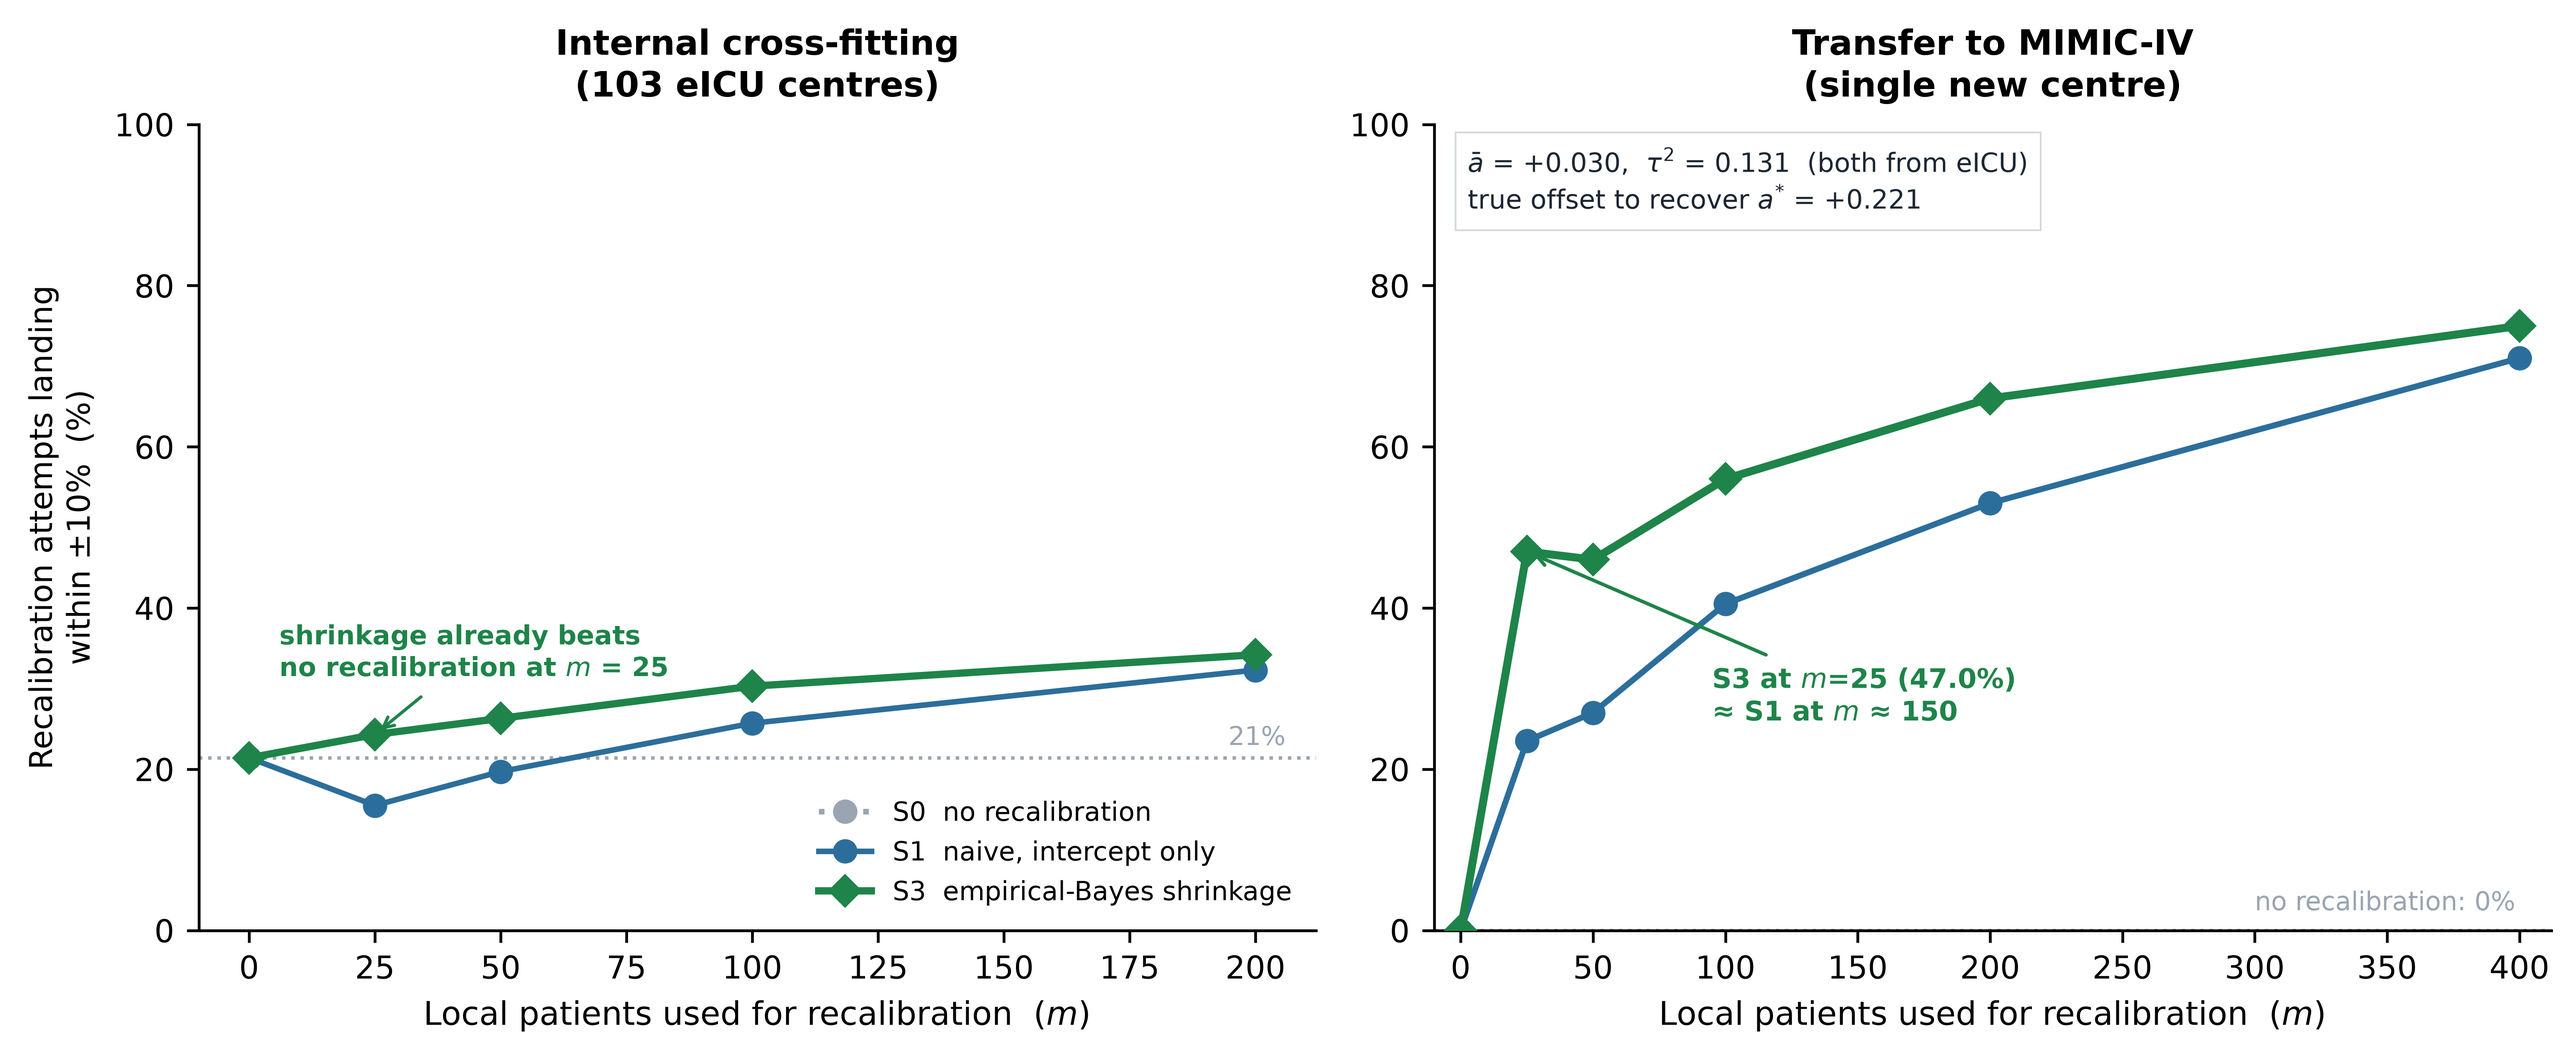
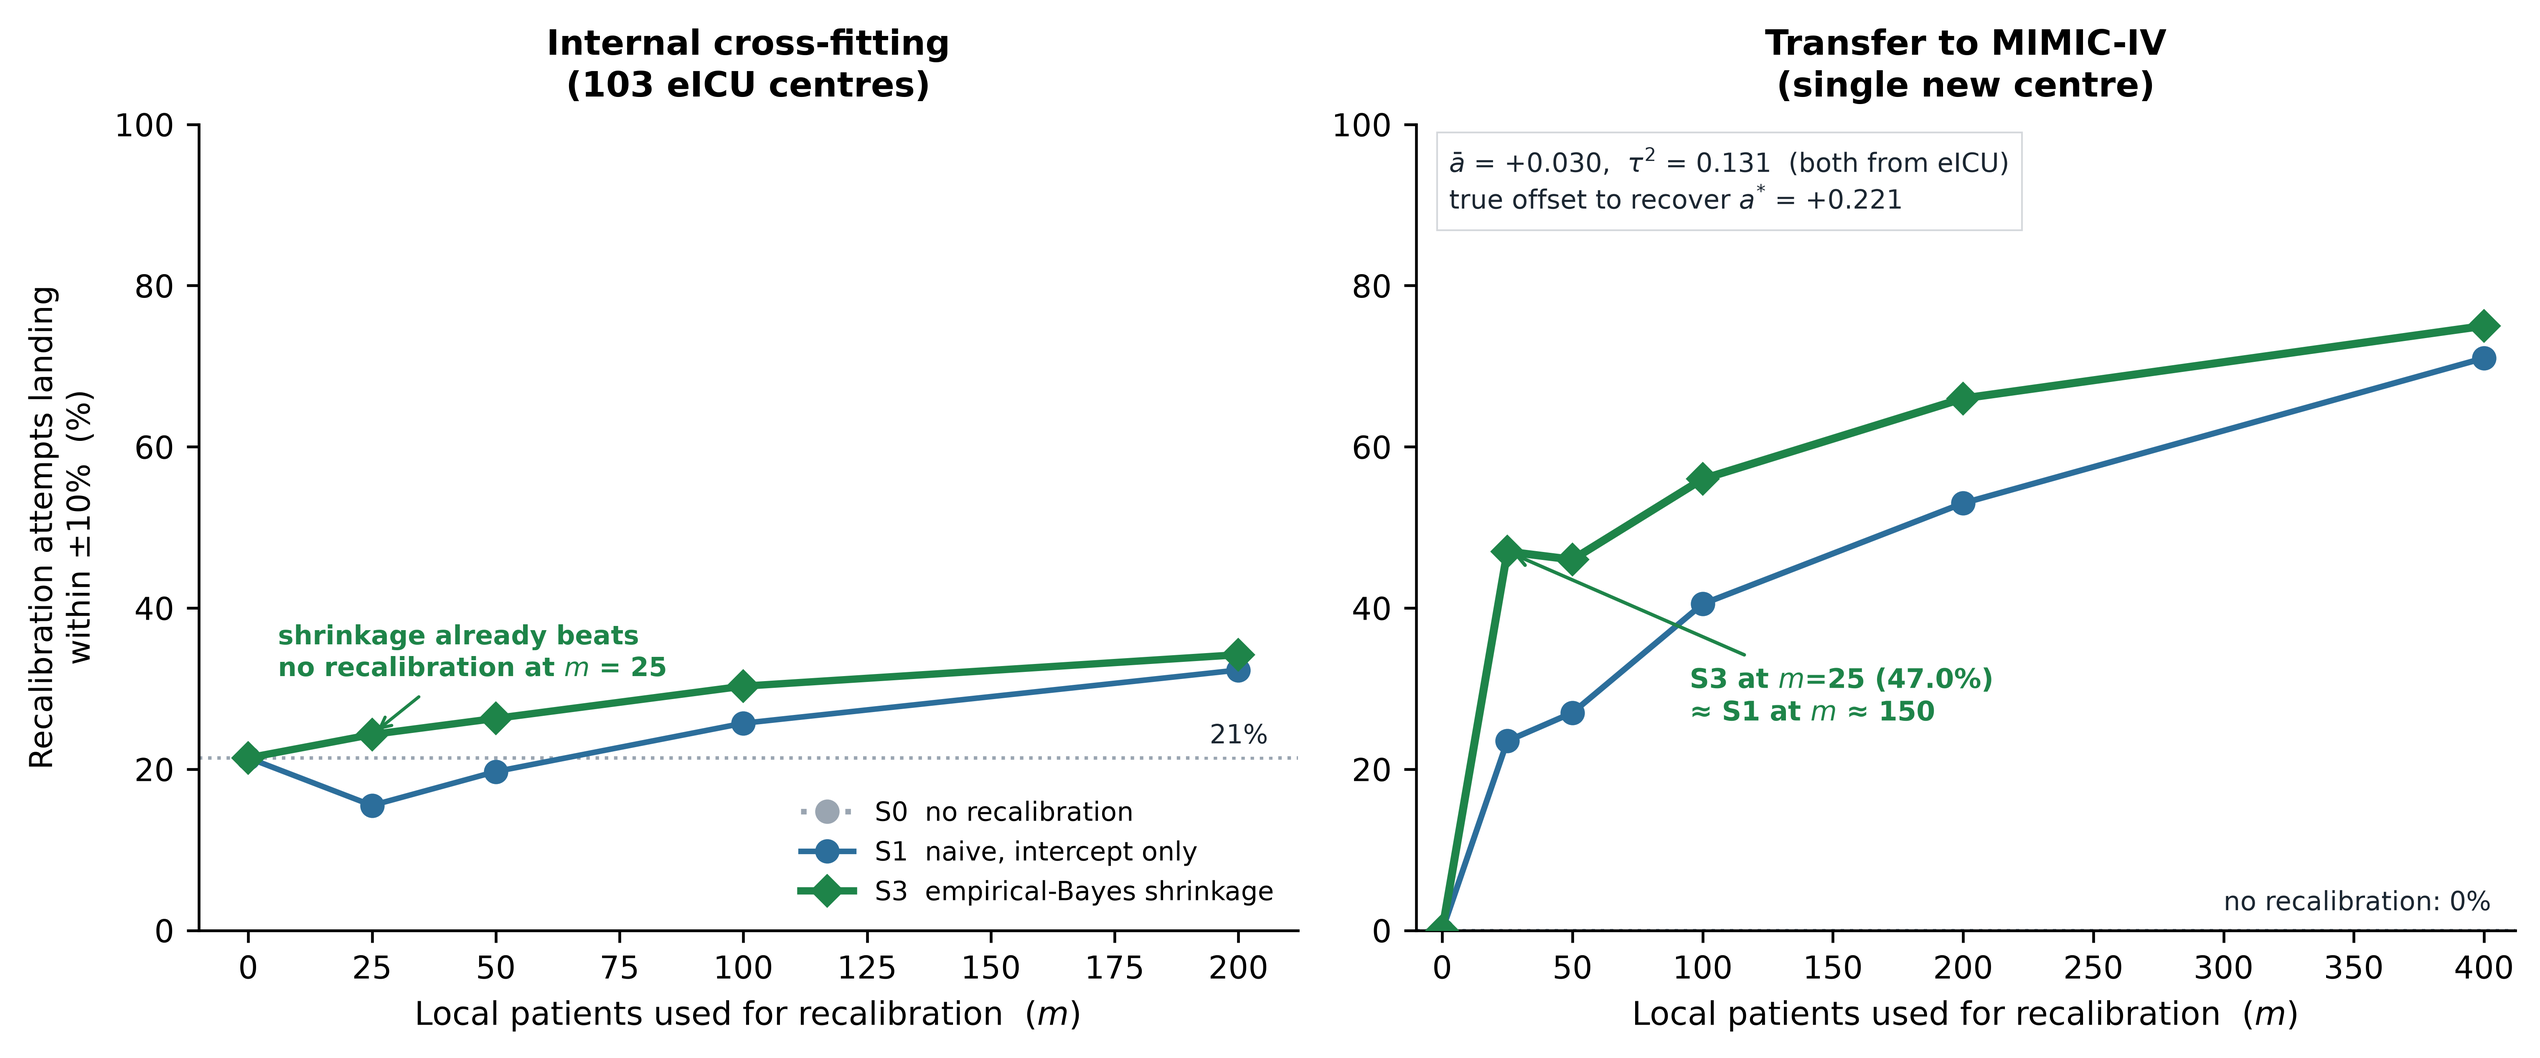
P1 batch 2: contrast boxes on Fig7 grey annotations; legend notes for Fig2 (sorting/colour), Fig5 (contributing centres per threshold), Fig7 (m=50 Monte-Carlo dip)

diff --git a/figures_mimic_external.py b/figures_mimic_external.py
@@ -52,7 +52,8 @@ for s in ["S0", "S1", "S3"]:
             ls=st["ls"], label=st["lab"], zorder=4 if s == "S3" else 3)
 d0 = S_int[(S_int["strat"] == "S0") & (S_int["m"] == 0)]["ok11"].iloc[0]
 ax.axhline(d0, color=GRAY, lw=1.0, ls=":")
-ax.text(206, d0 + 1.6, f"{d0:.0f}%", fontsize=7.4, color=GRAY, ha="right")
+ax.text(206, d0 + 1.8, f"{d0:.0f}%", fontsize=7.6, color=DARK, ha="right",
+            bbox=dict(fc="white", ec="none", pad=2.0))
 ax.set_title("Internal cross-fitting\n(103 eICU centres)", fontsize=10.0, fontweight="bold", pad=8)
 ax.set_xlim(-10, 212); ax.set_ylim(0, 100)
 ax.legend(fontsize=7.6, frameon=False, loc="lower right")
@@ -69,7 +70,8 @@ for s in ["S0", "S1", "S3"]:
             ls=st["ls"], zorder=4 if s == "S3" else 3)
 d0 = S_ext[(S_ext["strat"] == "S0") & (S_ext["m"] == 0)]["ok11"].iloc[0]
 ax.axhline(d0, color=GRAY, lw=1.0, ls=":")
-ax.text(300, d0 + 2.5, f"no recalibration: {d0:.0f}%", fontsize=7.4, color=GRAY, ha="left")
+ax.text(300, d0 + 2.5, f"no recalibration: {d0:.0f}%", fontsize=7.6, color=DARK, ha="left",
+            bbox=dict(fc="white", ec="none", pad=2.0))
 ax.annotate(f"S3 at $m$=25 ({EXT_S3_M25:.1f}%)\n≈ S1 at $m$ ≈ {EXT_EQ_M}",
             xy=(25, EXT_S3_M25), xytext=(95, 26), fontsize=7.8, color=TEAL, fontweight="bold",
             arrowprops=dict(arrowstyle="->", color=TEAL, lw=1.0))

diff --git a/图注_legend.md b/图注_legend.md
@@ -91,6 +91,9 @@
 > O/E 比跨度约 2.2 倍。**说明漂移是"场景属性"，而非某一评分的缺陷。**
 
 ---
+
+> **Sorting and colour.** Centres are sorted independently within each panel; the same x position does not denote the same centre across panels. Point colour simply re-encodes the calibration offset already shown on the y-axis and carries no additional information. Vertical bars are 95% confidence intervals for the offset by the delta method.
+
 # Figure 3
 
 ### English legend
@@ -239,6 +242,9 @@
 > **6.2% / 17.0% / 21.4% / 22.3%**——即最多五分之一的中心。
 
 ---
+
+> **Centres contributing at each threshold.** The number of hospitals contributing to each threshold varies, because a hospital contributes only when it flags at least ten patients. At the higher thresholds the flagged subgroup is small in many centres, so the observed mortality among flagged patients is imprecise and the 10th-to-90th percentile range widens accordingly.
+
 # Figure 6
 
 ### English legend
@@ -304,6 +310,9 @@
 ---
 
 > **Panel titles.** The right-hand panel shows transfer of the shrinkage parameters to MIMIC-IV treated as a **single new centre**. It is **not** multicentre external validation of the strategy, which can only be evaluated within eICU (left panel).
+
+> **The dip at m = 50.** The small decrease in the external success rate between 25 and 50 local patients reflects Monte-Carlo variation across the 200 resampling attempts, not a systematic effect; the monotonic trend across sample sizes should be read across the panel rather than between adjacent points.
+
 # 待补图（投稿前需完成）
 
 | 编号（暂定） | 内容 | 状态 |
